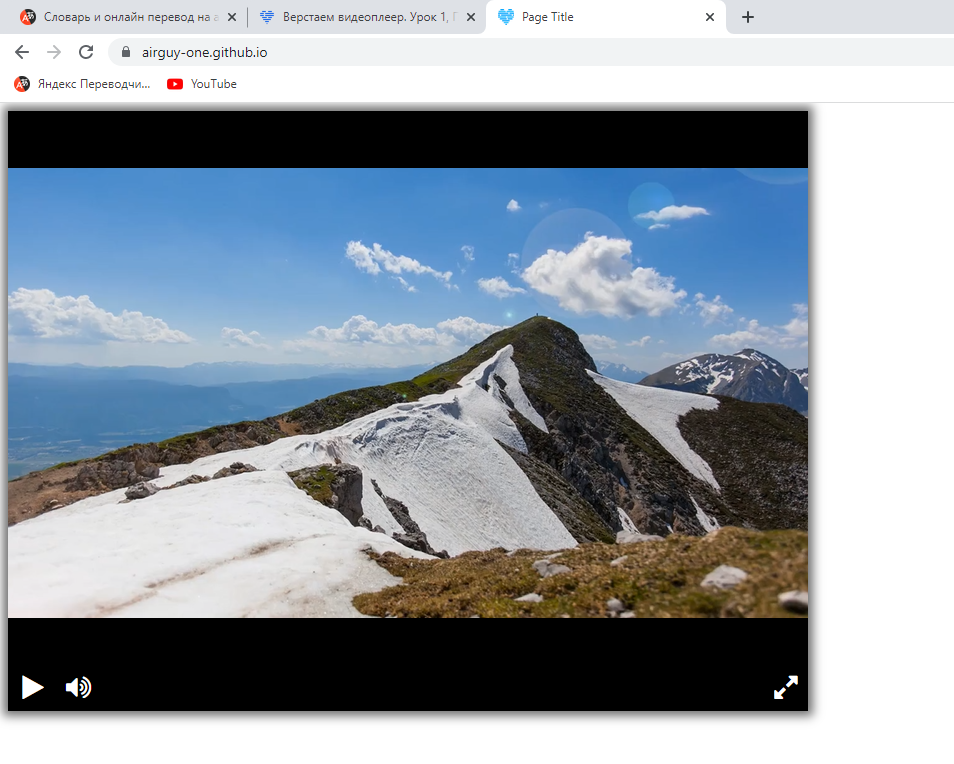
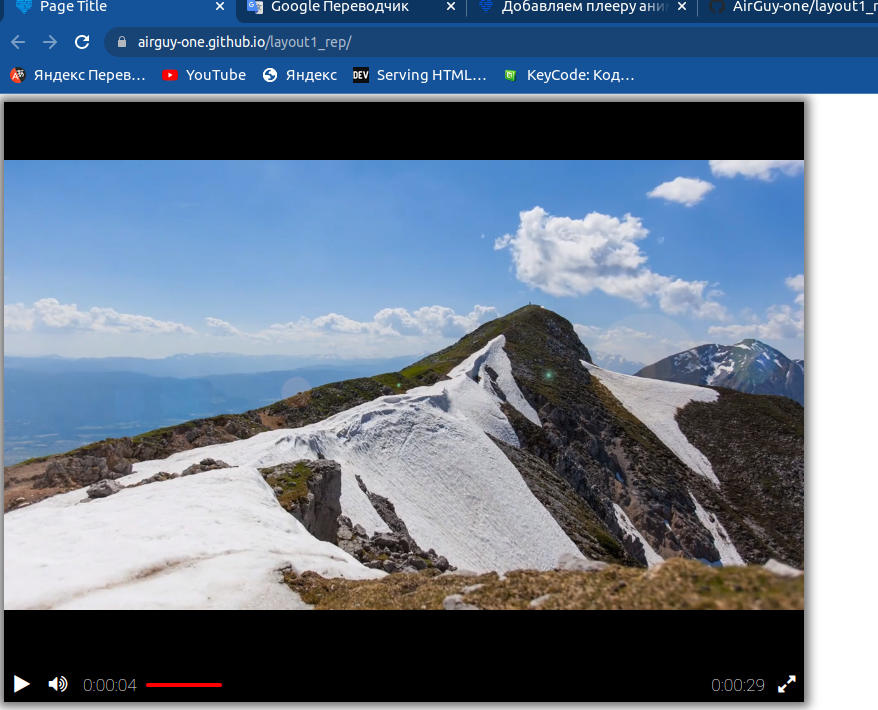
Move all css code to the separate file

diff --git a/index.html b/index.html
@@ -3,6 +3,7 @@
 <head>
     <meta http-equiv="Content-Type" content="text/html; charset=utf-8" />
     <title>Page Title</title>
+    <link rel="stylesheet" href="style.css">
     <link rel="icon" type="image/png" href="/favicon.png">
     <link rel="stylesheet" href="font-awesome.min.css">
     <link rel="preconnect" href="https://fonts.googleapis.com">
@@ -12,124 +13,6 @@
     <script src="https://code.jquery.com/jquery-3.4.1.min.js"></script>
     <script src="https://unpkg.com/playable@2.10.3/dist/statics/playable.bundle.min.js"></script>
     <script src="script.js"></script>
-    <style>
-        .player-wrapper {
-            width: 800px;
-            height: 600px;
-            box-shadow: 0 0 10px 5px rgb(111, 111, 111);
-            display: flex;
-            flex-direction: column;
-        }
-
-        .video-container {
-            flex-grow: 1;
-        }
-
-        .bottom-controls {
-            background-color: #000000;
-            display: flex;
-            flex-direction: row;
-            align-items: center;
-        }
-
-        .left-buttons {
-            flex-grow: 1;
-            display: flex;
-            flex-direction: row;
-        }
-
-        .viewing-panel {
-            flex-grow: 500;
-            display: flex;
-            flex-direction: row;
-            justify-content: space-between;
-            height: 35px;
-        }
-
-        .viewing-time {
-            margin: auto 0;
-        }
-
-        .viewing-progressbar {
-            flex-grow: 1;
-            margin: 0 3px;
-            cursor: pointer;
-        }
-
-        .video-duration {
-            margin: auto 0;
-        }
-
-        .right-buttons {
-            flex-grow: 1;
-            display: flex;
-            flex-direction: row;
-        }
-
-        .button-addition {
-            border-style: none;
-            cursor: pointer;
-            background-color: transparent;
-            font-size: 20px;
-            color: #fff;
-            width: 36px;
-            height: 35px;
-        }
-
-        .button-addition:focus {
-            border-style: none;
-            cursor: pointer;
-            background-color: transparent;
-            font-size: 20px;
-            color: #fff;
-            width: 36px;
-            height: 35px;
-        }
-
-        .expand-button {
-            width: 32px;
-        }
-
-        .timer {
-            border-style: none;
-            background-color: transparent;
-            color: #fff;
-            font-family: 'Roboto', sans-serif;
-        }
-
-        .progress {
-            margin: 11px 0;
-            background-color: black;
-            display: flex;
-            justify-content: start;
-        }
-
-        .progress:hover .dot {
-            height: 8px;
-            width: 8px;
-            background-color: #ff0000;
-            border-radius: 50%;
-            border: solid white 3px;
-            margin-left: -4px;
-        }
-
-        .slider {
-            margin: auto 0;
-            display: inline;
-            background-color: red;
-            height: 4px;
-        }
-
-        .progress-slider {
-            border-radius: 2px;
-        }
-
-        .dot {
-            height: 8px;
-            border: solid black 3px;
-        }
-
-    </style>
 </head>
 <body>
 
@@ -179,6 +62,8 @@
 
         </div>
     </div>
+
+    <h1>weijrgew</h1>
     
     <script type="text/javascript">
     createPlayer({

diff --git a/style.css b/style.css
@@ -1,30 +1,115 @@
-.some-div {
-    display: flex;
-    flex-grow: 1;
-
-    background-color: aqua;
+.player-wrapper {
+    width: 800px;
     height: 600px;
+    box-shadow: 0 0 10px 5px rgb(111, 111, 111);
+    display: flex;
+    flex-direction: column;
 }
 
-p {
-    font-size: 56px;
+.video-container {
+    flex-grow: 1;
 }
 
-.some {
-    background-color: yellow;
-    border-radius: 20px;
+.bottom-controls {
+    background-color: #000000;
+    display: flex;
+    flex-direction: row;
+    align-items: center;
 }
 
-.some#one {
-    align-self: flex-end;
-    flex-grow: 2;
+.left-buttons {
+    flex-grow: 1;
+    display: flex;
+    flex-direction: row;
 }
 
-.some#two {
-    align-self: center;
-    flex-grow: 3;
+.viewing-panel {
+    flex-grow: 500;
+    display: flex;
+    flex-direction: row;
+    justify-content: space-between;
+    height: 35px;
 }
 
-.some#three {
-    flex-grow: 4;
+.viewing-time {
+    margin: auto 0;
+}
+
+.viewing-progressbar {
+    flex-grow: 1;
+    margin: 0 3px;
+    cursor: pointer;
+}
+
+.video-duration {
+    margin: auto 0;
+}
+
+.right-buttons {
+    flex-grow: 1;
+    display: flex;
+    flex-direction: row;
+}
+
+.button-addition {
+    border-style: none;
+    cursor: pointer;
+    background-color: transparent;
+    font-size: 20px;
+    color: #fff;
+    width: 36px;
+    height: 35px;
+}
+
+.button-addition:focus {
+    border-style: none;
+    cursor: pointer;
+    background-color: transparent;
+    font-size: 20px;
+    color: #fff;
+    width: 36px;
+    height: 35px;
+}
+
+.expand-button {
+    width: 32px;
+}
+
+.timer {
+    border-style: none;
+    background-color: transparent;
+    color: #fff;
+    font-family: 'Roboto', sans-serif;
+}
+
+.progress {
+    margin: 11px 0;
+    background-color: black;
+    display: flex;
+    justify-content: start;
+}
+
+.progress:hover .dot {
+    height: 8px;
+    width: 8px;
+    background-color: #ff0000;
+    border-radius: 50%;
+    border: solid white 3px;
+    margin-left: -4px;
+}
+
+.slider {
+    margin: auto 0;
+    display: inline;
+    background-color: red;
+    height: 4px;
+}
+
+.progress-slider {
+    border-radius: 2px;
+}
+
+.dot {
+    height: 8px;
+    border: solid black 3px;
 }
